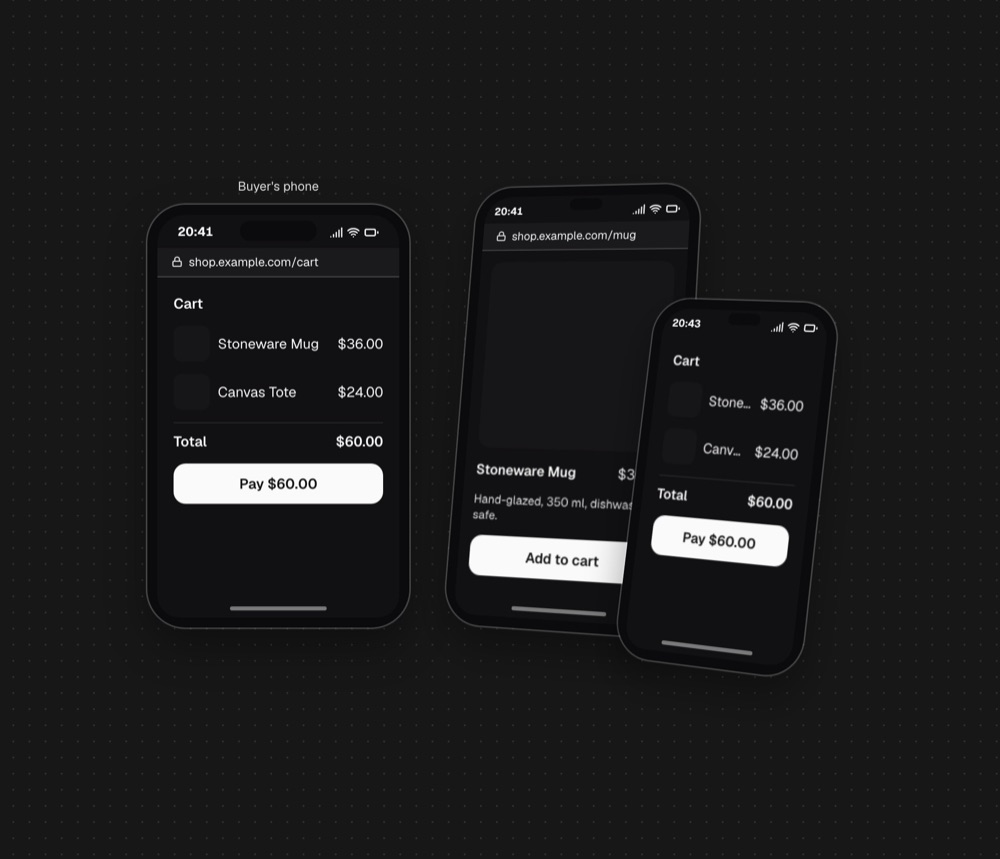
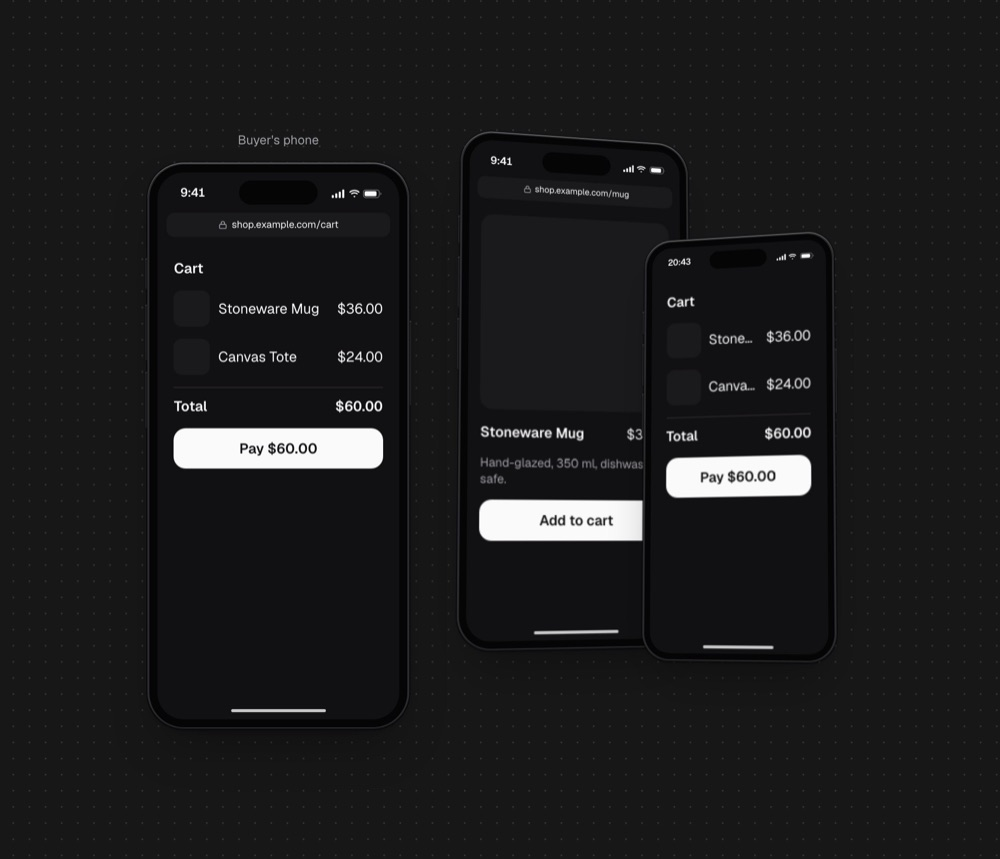
fix(web): phone-frame looks like a phone
Real 9:19.5 proportions by default, a metal band lit from the top around
a black glass bezel, side buttons, a proportional dynamic island and
filled status icons. Everything is sized in container units so the
radii and island keep their ratio when the phone shrinks. Neutral
screen tokens replace the warm ones, and PhonePair uses gentler poses
without the sideways roll.

diff --git a/apps/web/registry/free/phone-frame/phone-frame.tsx b/apps/web/registry/free/phone-frame/phone-frame.tsx
@@ -9,17 +9,16 @@ import { cn } from "@/lib/utils";
 export type PhoneFrameScheme = "auto" | "dark" | "light";
 
 /*
- * 色彩 token。auto 沿用部落格 tokens.css（淺色 stone、深色 zinc），
- * dark／light 沿用簡報裝置外框的固定色。
+ * 螢幕裡的色彩 token。auto 跟著網站深淺色，dark／light 固定，給不吃主題的簡報舞台用。
+ * 全部是中性灰，不帶暖色。
  */
 const lightVars =
-  "[--wf-surface:#ffffff] [--wf-raised:#f5f5f5] [--wf-sunken:#f3f1ed] [--wf-fg:#171717] [--wf-fg-body:#262626] [--wf-fg-muted:#525252] [--wf-line:rgba(28,25,23,0.1)] [--wf-line-strong:rgba(28,25,23,0.22)] [--wf-dot:rgba(28,25,23,0.08)] [--wf-success:rgba(5,150,105,0.6)] [--wf-danger:rgba(220,38,38,0.6)] [--wf-brand:rgba(217,119,6,0.7)] [--wf-shadow:0_1px_2px_rgba(28,25,23,0.05),0_4px_14px_-6px_rgba(28,25,23,0.08)]";
+  "[--wf-surface:#ffffff] [--wf-raised:#f4f4f5] [--wf-sunken:#f4f4f5] [--wf-fg:#171717] [--wf-fg-muted:#525252] [--wf-line-strong:rgba(0,0,0,0.12)] [--wf-line:rgba(0,0,0,0.08)]";
 const darkAutoVars =
-  "dark:[--wf-surface:#111113] dark:[--wf-raised:#1a1a1d] dark:[--wf-sunken:#161619] dark:[--wf-fg:#fafafa] dark:[--wf-fg-body:#e4e4e7] dark:[--wf-fg-muted:#e4e4e7] dark:[--wf-line:rgba(255,255,255,0.1)] dark:[--wf-line-strong:rgba(255,255,255,0.22)] dark:[--wf-dot:rgba(250,250,250,0.08)] dark:[--wf-success:rgba(52,211,153,0.6)] dark:[--wf-danger:rgba(248,113,113,0.6)] dark:[--wf-brand:rgba(250,204,21,0.7)] dark:[--wf-shadow:none]";
+  "dark:[--wf-surface:#111113] dark:[--wf-raised:#1a1a1d] dark:[--wf-sunken:#1a1a1d] dark:[--wf-fg:#fafafa] dark:[--wf-fg-muted:#a1a1aa] dark:[--wf-line-strong:rgba(255,255,255,0.14)] dark:[--wf-line:rgba(255,255,255,0.1)]";
 const fixedDark =
-  "[--wf-surface:#151518] [--wf-raised:#1c1c20] [--wf-sunken:#1c1c20] [--wf-fg:#f4f4f4] [--wf-fg-body:#f4f4f4] [--wf-fg-muted:#bdb6a6] [--wf-line:#3a3a42] [--wf-line-strong:#3a3a42] [--wf-dot:rgba(246,241,230,0.08)] [--wf-success:rgba(52,211,153,0.6)] [--wf-danger:rgba(248,113,113,0.6)] [--wf-brand:rgba(232,184,74,0.7)] [--wf-shadow:0_12px_30px_rgba(0,0,0,0.22)]";
-const fixedLight =
-  "[--wf-surface:#ffffff] [--wf-raised:#e8e0cf] [--wf-sunken:#f4efe4] [--wf-fg:#17140d] [--wf-fg-body:#17140d] [--wf-fg-muted:#58513f] [--wf-line:#cfc6ae] [--wf-line-strong:#cfc6ae] [--wf-dot:rgba(23,20,13,0.08)] [--wf-success:rgba(5,150,105,0.6)] [--wf-danger:rgba(220,38,38,0.6)] [--wf-brand:rgba(138,90,0,0.7)] [--wf-shadow:0_12px_30px_rgba(0,0,0,0.22)]";
+  "[--wf-surface:#111113] [--wf-raised:#1a1a1d] [--wf-sunken:#1a1a1d] [--wf-fg:#fafafa] [--wf-fg-muted:#a1a1aa] [--wf-line-strong:rgba(255,255,255,0.14)] [--wf-line:rgba(255,255,255,0.1)]";
+const fixedLight = lightVars;
 
 const schemeVars: Record<PhoneFrameScheme, string> = {
   auto: `${lightVars} ${darkAutoVars}`,
@@ -29,29 +28,42 @@ const schemeVars: Record<PhoneFrameScheme, string> = {
 
 function SimBadge({ children }: { children: ReactNode }) {
   return (
-    <span className="flex-none rounded-full border border-[var(--wf-line-strong)] bg-[var(--wf-sunken)] px-2 py-px text-[11px] font-bold tracking-[0.04em] text-[var(--wf-fg-muted)]">
+    <span className="flex-none rounded-full bg-[var(--wf-sunken)] px-2 py-px text-[11px] font-semibold tracking-[0.04em] text-[var(--wf-fg-muted)] shadow-[0_0_0_1px_var(--wf-line-strong)]">
       {children}
     </span>
   );
 }
 
-function LockIcon({ size }: { size: number }) {
+function LockIcon() {
   return (
-    <svg
-      width={size}
-      height={size}
-      viewBox="0 0 24 24"
-      fill="none"
-      stroke="currentColor"
-      strokeWidth={2.5}
-      strokeLinecap="round"
-      strokeLinejoin="round"
-      aria-hidden="true"
-      className="shrink-0"
-    >
-      <rect width="18" height="11" x="3" y="11" rx="2" ry="2" />
-      <path d="M7 11V7a5 5 0 0 1 10 0v4" />
+    <svg viewBox="0 0 24 24" fill="none" stroke="currentColor" strokeWidth={2} strokeLinecap="round" strokeLinejoin="round" aria-hidden="true" className="size-[1em] shrink-0">
+      <rect width="16" height="10" x="4" y="11" rx="2" />
+      <path d="M8 11V8a4 4 0 0 1 8 0v3" />
     </svg>
+  );
+}
+
+/** 狀態列：實心訊號格、Wi-Fi 扇形、電池，和真的手機一樣是填色而不是線條 */
+function StatusIcons() {
+  return (
+    <span className="inline-flex items-center gap-[1.4cqw]">
+      <svg viewBox="0 0 18 12" className="h-[3.2cqw] w-auto" fill="currentColor">
+        <rect x="0" y="8" width="3" height="4" rx="1" />
+        <rect x="5" y="5.5" width="3" height="6.5" rx="1" />
+        <rect x="10" y="3" width="3" height="9" rx="1" />
+        <rect x="15" y="0" width="3" height="12" rx="1" />
+      </svg>
+      <svg viewBox="0 0 16 12" className="h-[3.2cqw] w-auto" fill="currentColor">
+        <path d="M8 2.2c2.4 0 4.6.9 6.3 2.5l1.2-1.3A10.6 10.6 0 0 0 8 .4 10.6 10.6 0 0 0 .5 3.4l1.2 1.3A8.8 8.8 0 0 1 8 2.2Z" />
+        <path d="M8 5.6c1.5 0 2.9.6 3.9 1.5l1.2-1.3A7.4 7.4 0 0 0 8 3.8c-2 0-3.8.7-5.1 2l1.2 1.3c1-.9 2.4-1.5 3.9-1.5Z" />
+        <path d="M8 9c.6 0 1.2.2 1.6.6L8 11.4 6.4 9.6C6.8 9.2 7.4 9 8 9Z" />
+      </svg>
+      <svg viewBox="0 0 27 12" className="h-[3.2cqw] w-auto">
+        <rect x="0.6" y="0.6" width="22.8" height="10.8" rx="3.4" fill="none" stroke="currentColor" strokeOpacity="0.4" strokeWidth="1.2" />
+        <rect x="2.4" y="2.4" width="17" height="7.2" rx="2" fill="currentColor" />
+        <path d="M25 4v4c.8-.3 1.4-1.1 1.4-2s-.6-1.7-1.4-2Z" fill="currentColor" fillOpacity="0.4" />
+      </svg>
+    </span>
   );
 }
 
@@ -62,9 +74,9 @@ export interface PhoneFrameProps {
   /** 瀏覽器網址列；不給就沒有網址列 */
   url?: string;
   time?: string;
-  /** 手機寬度（px），窄容器裡會縮到 100% */
+  /** 手機寬度（px），窄容器裡會縮到 100%，外框、圓角、動態島跟著等比縮放 */
   width?: number;
-  /** 手機整體高度。給了就固定大小，內容在螢幕裡捲動 */
+  /** 手機整體高度。不給時用真實手機的 9:19.5 比例；內容超出時在螢幕裡捲動 */
   height?: number;
   /** 手機上方的小標 */
   label?: ReactNode;
@@ -100,10 +112,19 @@ const MESSAGES: Record<SunLocale, PhoneFrameLabels> = {
   ja: { screen: "スマートフォンの画面", url: (u) => `URL ${u}` },
 };
 
+/*
+ * 外框由外到內三層：金屬中框（光從正上方來，上緣亮、下緣暗）、黑色玻璃邊、螢幕。
+ * 所有尺寸用 cqw（手機寬度的百分比），縮小時圓角、邊框、動態島的比例不變。
+ * 同心圓角：中框 14cqw，玻璃邊 13.2cqw，螢幕 13.2 − 3.2 = 10cqw。
+ */
+const frameMetal =
+  "bg-[#2b2b2f] shadow-[inset_0_1px_0_rgb(255_255_255/0.28),inset_0_-1px_0_rgb(0_0_0/0.5),0_0_0_1px_rgb(0_0_0/0.55),0_2px_4px_rgb(0_0_0/0.12),0_24px_48px_-16px_rgb(0_0_0/0.35)]";
+const buttonMetal = "absolute w-[1.1cqw] bg-[#2b2b2f] shadow-[inset_0_1px_0_rgb(255_255_255/0.22),0_0_0_0.5px_rgb(0_0_0/0.5)]";
+
 export function PhoneFrame({
   children,
   url,
-  time = "20:41",
+  time = "9:41",
   width = 320,
   height,
   label,
@@ -114,17 +135,11 @@ export function PhoneFrame({
   className,
 }: PhoneFrameProps) {
   const t = { ...MESSAGES[resolveLocale(locale)], ...labels };
-  // 窄手機框：動態島縮小、狀態列收緊，不蓋到時間與電量
-  const compact = width < 240;
   const part = "bg-[var(--wf-surface)] text-[var(--wf-fg)]";
   return (
     <figure
       aria-label={typeof label === "string" ? label : t.screen}
-      className={cn(
-        "m-0 grid min-w-0 max-w-full justify-items-center gap-2",
-        schemeVars[scheme],
-        className,
-      )}
+      className={cn("m-0 grid min-w-0 max-w-full justify-items-center gap-3", schemeVars[scheme], className)}
       style={{ width }}
     >
       {(label || badge) && (
@@ -133,89 +148,36 @@ export function PhoneFrame({
           {badge && <SimBadge>{badge}</SimBadge>}
         </figcaption>
       )}
-      <div
-        className="relative flex w-full flex-col overflow-hidden rounded-[38px] bg-[#0b0b0d] p-2.5 shadow-[0_0_0_1.5px_color-mix(in_srgb,var(--wf-fg)_22%,transparent),0_18px_40px_rgba(0,0,0,0.35)]"
-        style={height ? { height } : undefined}
-      >
-        <div
-          aria-hidden="true"
-          className="absolute top-4 left-1/2 z-[2] h-5 w-[76px] -translate-x-1/2 rounded-full bg-[#0b0b0d]"
-          style={compact ? { width: 34, height: 12, top: 13 } : undefined}
-        />
-        <div
-          aria-hidden="true"
-          className={cn(
-            "flex flex-none items-center justify-between rounded-t-[28px] px-5 pt-2 pb-1.5 text-[12.5px] font-bold",
-            part,
-          )}
-          style={
-            compact ? { padding: "7px 10px 4px", fontSize: 11 } : undefined
-          }
-        >
-          <span className="tabular-nums">{time}</span>
-          <span className="inline-flex items-center gap-1">
-            <svg
-              width="13"
-              height="13"
-              viewBox="0 0 24 24"
-              fill="none"
-              stroke="currentColor"
-              strokeWidth={2.4}
-              strokeLinecap="round"
-              strokeLinejoin="round"
-            >
-              <path d="M2 20h.01M7 20v-4M12 20v-8M17 20V8M22 4v16" />
-            </svg>
-            <svg
-              width="13"
-              height="13"
-              viewBox="0 0 24 24"
-              fill="none"
-              stroke="currentColor"
-              strokeWidth={2.4}
-              strokeLinecap="round"
-              strokeLinejoin="round"
-            >
-              <path d="M12 20h.01M2 8.82a15 15 0 0 1 20 0M5 12.859a10 10 0 0 1 14 0M8.5 16.429a5 5 0 0 1 7 0" />
-            </svg>
-            <svg
-              width="15"
-              height="15"
-              viewBox="0 0 24 24"
-              fill="none"
-              stroke="currentColor"
-              strokeWidth={2.2}
-              strokeLinecap="round"
-              strokeLinejoin="round"
-            >
-              <rect width="16" height="10" x="2" y="7" rx="2" ry="2" />
-              <path d="M22 11v2" />
-            </svg>
-          </span>
-        </div>
-        {url && (
-          <div
-            aria-label={t.url(url)}
-            className="flex flex-none items-center gap-1.5 border-b border-[var(--wf-line-strong)] bg-[var(--wf-raised)] px-3.5 py-1.5 text-xs text-[var(--wf-fg-muted)]"
-          >
-            <LockIcon size={11} />
-            <span className="truncate text-[var(--wf-fg)]">{url}</span>
+      <div className="@container relative w-full">
+        {/* 側邊按鍵：左側動作鍵與音量鍵，右側電源鍵，各凸出機身一點點 */}
+        <span aria-hidden="true" className={cn(buttonMetal, "-left-[0.9cqw] top-[17%] h-[5.5%] rounded-l-[0.6cqw]")} />
+        <span aria-hidden="true" className={cn(buttonMetal, "-left-[0.9cqw] top-[25%] h-[10%] rounded-l-[0.6cqw]")} />
+        <span aria-hidden="true" className={cn(buttonMetal, "-left-[0.9cqw] top-[37%] h-[10%] rounded-l-[0.6cqw]")} />
+        <span aria-hidden="true" className={cn(buttonMetal, "-right-[0.9cqw] top-[28%] h-[15%] rounded-r-[0.6cqw]")} />
+        <div className={cn("relative rounded-[14cqw] p-[0.8cqw]", frameMetal)} style={height ? { height } : { aspectRatio: "9 / 19.5" }}>
+          <div className="h-full rounded-[13.2cqw] bg-[#050506] p-[3.2cqw]">
+            <div className={cn("relative flex h-full flex-col overflow-hidden rounded-[10cqw]", part)}>
+              {/* 動態島 */}
+              <div aria-hidden="true" className="absolute top-[3.2cqw] left-1/2 z-[2] h-[9cqw] w-[30cqw] -translate-x-1/2 rounded-full bg-[#050506]" />
+              <div aria-hidden="true" className="flex h-[15.4cqw] flex-none items-center justify-between pr-[6.4cqw] pl-[8.6cqw] pt-[1cqw] text-[4.6cqw] font-semibold">
+                <span className="tabular-nums tracking-tight">{time}</span>
+                <StatusIcons />
+              </div>
+              {url && (
+                <div
+                  aria-label={t.url(url)}
+                  className="mx-[3.2cqw] mb-[2cqw] flex flex-none items-center justify-center gap-[1.4cqw] rounded-[3cqw] bg-[var(--wf-raised)] px-[3cqw] py-[1.8cqw] text-[3.8cqw] text-[var(--wf-fg-muted)]"
+                >
+                  <LockIcon />
+                  <span className="truncate text-[var(--wf-fg)]">{url}</span>
+                </div>
+              )}
+              <div className="min-h-0 flex-1 overflow-x-hidden overflow-y-auto overscroll-contain">{children}</div>
+              <div aria-hidden="true" className="relative h-[7cqw] flex-none">
+                <span className="absolute bottom-[2.4cqw] left-1/2 h-[1.4cqw] w-[36cqw] -translate-x-1/2 rounded-full bg-[var(--wf-fg)] opacity-80" />
+              </div>
+            </div>
           </div>
-        )}
-        <div
-          className={cn(
-            "min-h-[120px] flex-auto overflow-x-hidden",
-            part,
-            height && "min-h-0 flex-1 overflow-y-auto overscroll-contain",
-          )}
-        >
-          {children}
-        </div>
-        <div
-          aria-hidden="true"
-          className={cn("relative h-[22px] flex-none rounded-b-[28px]", part)}
-        >
-          <span className="absolute bottom-[7px] left-1/2 h-1 w-24 -translate-x-1/2 rounded-full bg-[var(--wf-fg)] opacity-45" />
         </div>
       </div>
     </figure>
@@ -228,7 +190,7 @@ export function PhoneFrame({
 const GENTLE = { stiffness: 240, damping: 30 };
 /** 舞台的設計尺寸；容器較窄時整組等比縮小，不換版 */
 const STAGE_W = 400;
-const STAGE_H = 500;
+const STAGE_H = 580;
 
 const useIsoLayoutEffect = typeof window === "undefined" ? useEffect : useLayoutEffect;
 
@@ -352,16 +314,16 @@ export function PhonePair({
         className="absolute top-0 left-1/2 origin-top"
         style={{ width: STAGE_W, height: STAGE_H, transform: `translateX(-50%) scale(${scale})` }}
       >
-        <div className="absolute top-0 left-1" style={{ width: 236 }}>
-          <TiltedPhone px={px} py={py} pose={{ x: 10, y: -16, z: 4 }} follow={0.55}>
-            <PhoneFrame {...backFrame} width={236} height={448} scheme={scheme} locale={locale}>
+        <div className="absolute top-0 left-[8px]" style={{ width: 236 }}>
+          <TiltedPhone px={px} py={py} pose={{ x: 6, y: 14, z: 0 }} follow={0.55}>
+            <PhoneFrame {...backFrame} width={236} scheme={scheme} locale={locale}>
               {back}
             </PhoneFrame>
           </TiltedPhone>
         </div>
-        <div className="absolute top-[118px] left-[176px]" style={{ width: 196 }}>
-          <TiltedPhone px={px} py={py} pose={{ x: 8, y: -20, z: 7 }} follow={1}>
-            <PhoneFrame {...frontFrame} width={196} height={368} scheme={scheme} locale={locale}>
+        <div className="absolute top-[100px] left-[188px]" style={{ width: 196 }}>
+          <TiltedPhone px={px} py={py} pose={{ x: 6, y: -14, z: 0 }} follow={1}>
+            <PhoneFrame {...frontFrame} width={196} scheme={scheme} locale={locale}>
               {front}
             </PhoneFrame>
           </TiltedPhone>

diff --git a/apps/web/registry/free/phone-frame/card.tsx b/apps/web/registry/free/phone-frame/card.tsx
@@ -18,7 +18,7 @@ export default function PhoneFrameCard() {
   const locale = useDemoLocale();
   const t = useDemoText(copy);
   return (
-    <PhoneFrame url="shop.example.com" width={150} height={236} locale={locale} className="mx-auto">
+    <PhoneFrame url="shop.example.com" width={132} locale={locale} className="mx-auto">
       <div className="space-y-2.5 p-3 text-[11px]">
         <p className="font-semibold">{t.cart}</p>
         {t.items.map((name, i) => (

diff --git a/apps/web/registry/free/phone-frame/demo.tsx b/apps/web/registry/free/phone-frame/demo.tsx
@@ -101,7 +101,6 @@ export default function PhoneFrameDemo() {
       <PhoneFrame
         url="shop.example.com/cart"
         width={260}
-        height={420}
         label={t.label}
         locale={locale}
         className="shrink-0"
